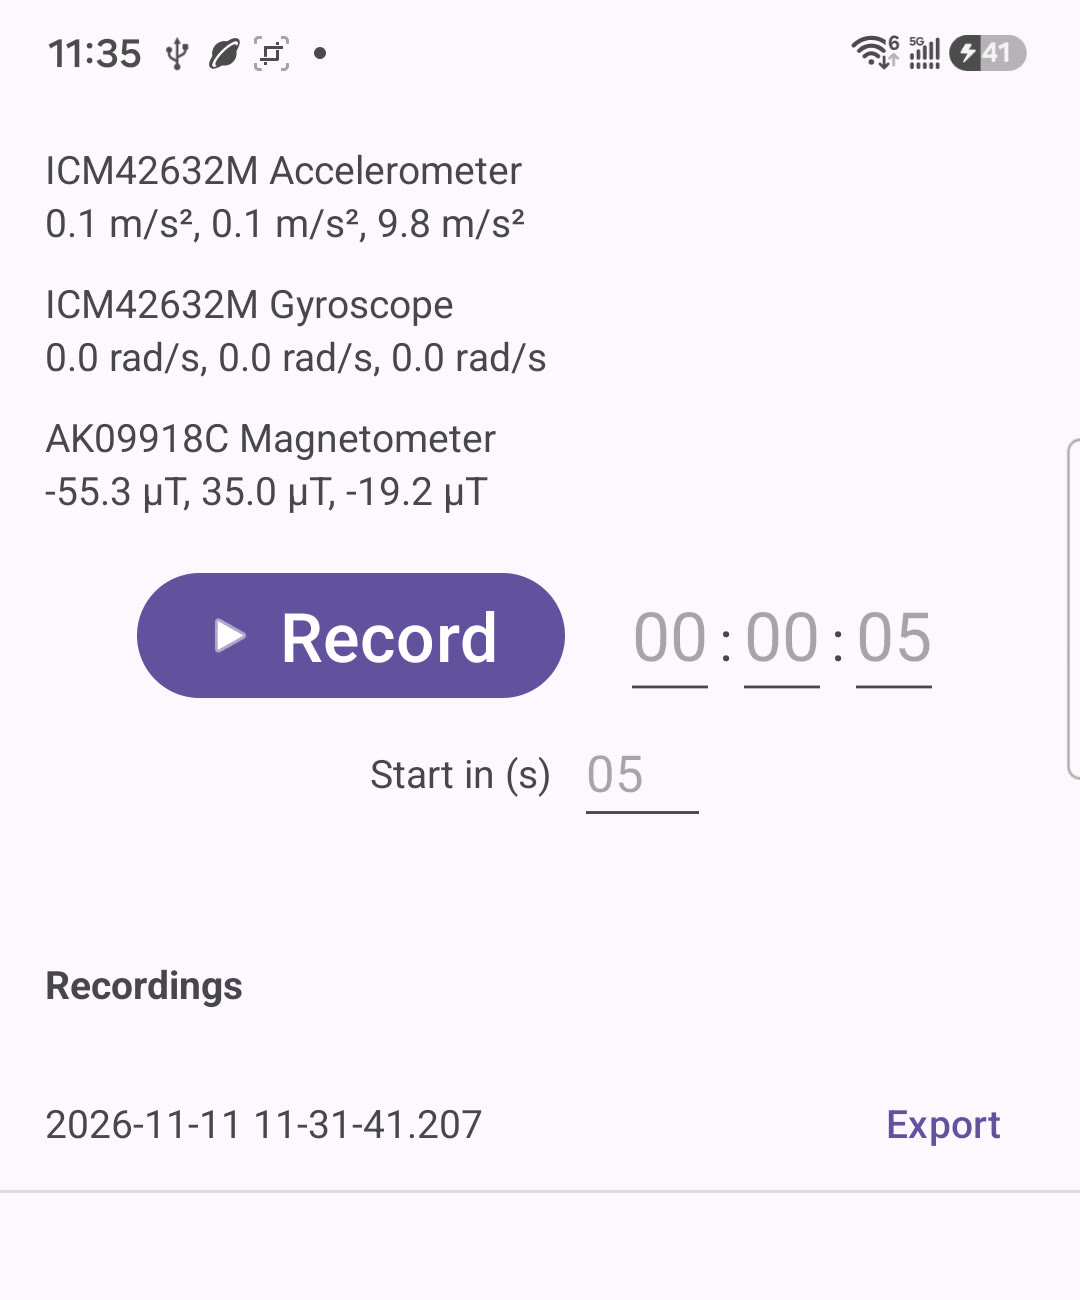
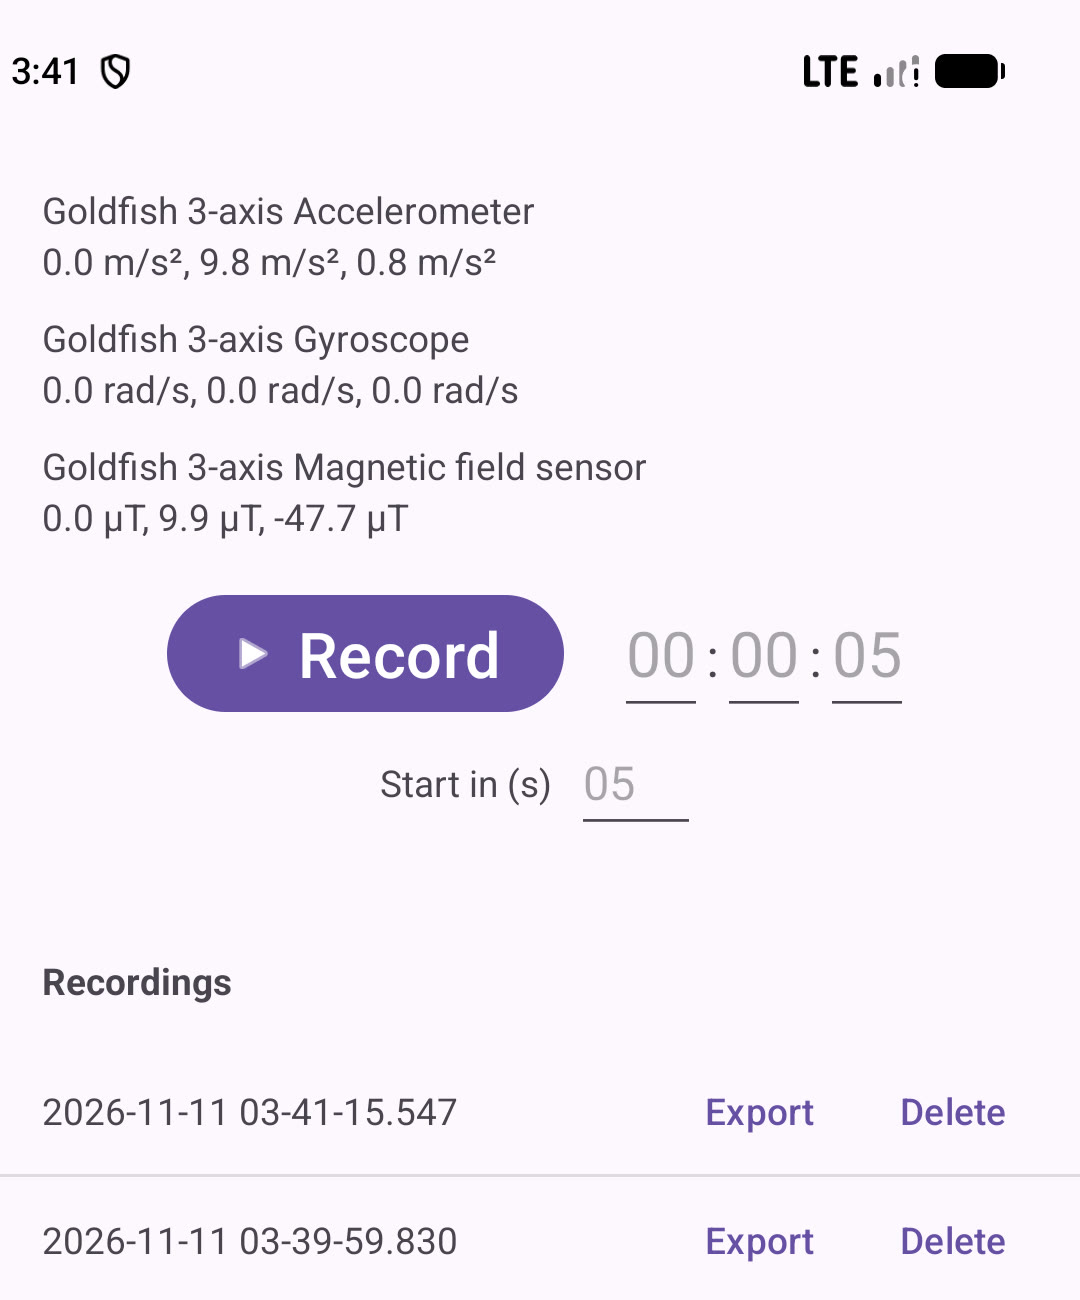
Enhance recording features: add delete functionality, save sensor metadata, and update UI

diff --git a/app/src/main/java/com/github/oezeb/imu_collector/MainActivity.kt b/app/src/main/java/com/github/oezeb/imu_collector/MainActivity.kt
@@ -15,6 +15,8 @@ import android.view.View
 import android.view.ViewGroup
 import android.widget.ArrayAdapter
 import android.widget.ListView
+import androidx.appcompat.app.AlertDialog
+import org.json.JSONObject
 import androidx.core.content.FileProvider
 import java.util.zip.ZipEntry
 import java.util.zip.ZipOutputStream
@@ -93,6 +95,10 @@ class MainActivity : AppCompatActivity(), SensorEventListener {
         btnView.setOnClickListener { record() }
     }
 
+    companion object {
+        const val SAMPLING_PERIOD_US = 20_000 // 50Hz==0.02s==20_000 μs
+    }
+
     class MinMaxFilter(private val min: Int, private val max: Int) : InputFilter {
         override fun filter(
             source: CharSequence?,
@@ -142,6 +148,7 @@ class MainActivity : AppCompatActivity(), SensorEventListener {
         accFile = File(dir, "acc.txt").apply { writeText("") }
         gyrFile = File(dir, "gyr.txt").apply { writeText("") }
         magFile = File(dir, "mag.txt").apply { writeText("") }
+        File(dir, "sensors.json").writeText(sensorInfoJson())
 
         object : CountDownTimer(durationMs, 1000) {
             override fun onTick(millisUntilFinished: Long) {
@@ -196,9 +203,44 @@ class MainActivity : AppCompatActivity(), SensorEventListener {
                 val dir = getItem(position)!!
                 row.findViewById<TextView>(R.id.rec_name).text = dir.name
                 row.findViewById<Button>(R.id.rec_export).setOnClickListener { export(dir) }
+                row.findViewById<Button>(R.id.rec_delete).setOnClickListener { confirmDelete(dir) }
                 return row
             }
         }
+    }
+
+    private fun sensorInfoJson(): String {
+        val sensors = JSONObject()
+        mapOf("acc" to accSensor, "gyr" to gyrSensor, "mag" to magSensor).forEach { (key, s) ->
+            sensors.put(key, if (s == null) JSONObject.NULL else JSONObject().apply {
+                put("name", s.name)
+                put("vendor", s.vendor)
+                put("version", s.version)
+                put("type", s.stringType)
+                put("resolution", s.resolution.toDouble())
+                put("maxRange", s.maximumRange.toDouble())
+                put("powerMa", s.power.toDouble())
+                put("minDelayUs", s.minDelay)
+                put("requestedDelayUs", SAMPLING_PERIOD_US)
+            })
+        }
+        return JSONObject().apply {
+            put("device", "${Build.MANUFACTURER} ${Build.MODEL}")
+            put("androidSdk", Build.VERSION.SDK_INT)
+            put("sensors", sensors)
+        }.toString(2)
+    }
+
+    private fun confirmDelete(dir: File) {
+        AlertDialog.Builder(this)
+            .setTitle(R.string.delete)
+            .setMessage(getString(R.string.delete_confirm, dir.name))
+            .setPositiveButton(R.string.delete) { _, _ ->
+                dir.deleteRecursively()
+                refreshRecordings()
+            }
+            .setNegativeButton(android.R.string.cancel, null)
+            .show()
     }
 
     private fun export(dir: File) {
@@ -250,8 +292,7 @@ class MainActivity : AppCompatActivity(), SensorEventListener {
     override fun onResume() {
         super.onResume()
         arrayOf(accSensor, gyrSensor, magSensor).forEach { sensor ->
-            val rate = 20_000 // 50Hz==0.02s==20_000 μs
-            sensorManager.registerListener(this, sensor, rate)
+            sensorManager.registerListener(this, sensor, SAMPLING_PERIOD_US)
         }
     }
 

diff --git a/README.md b/README.md
@@ -12,7 +12,8 @@ A lightweight Android application for collecting and logging Inertial Measuremen
 - Automated data recording with customizable duration
 - Configurable start delay (default 5s) with an on-screen countdown before recording begins
 - Vibration when recording starts and ends
-- In-app list of past recordings, with an Export button that zips a recording and opens the share sheet
+- In-app list of past recordings, with an Export button (zips a recording and opens the share sheet) and a Delete button (asks for confirmation)
+- Sensor metadata (name, vendor, resolution, range, etc.) saved alongside each recording
 
 ## Data Storage
 
@@ -23,7 +24,8 @@ recordings/
 └── YYYY-MM-DD HH-mm-ss.SSS/
     ├── acc.txt
     ├── gyr.txt
-    └── mag.txt
+    ├── mag.txt
+    └── sensors.json
 ```
 
 ### File Format
